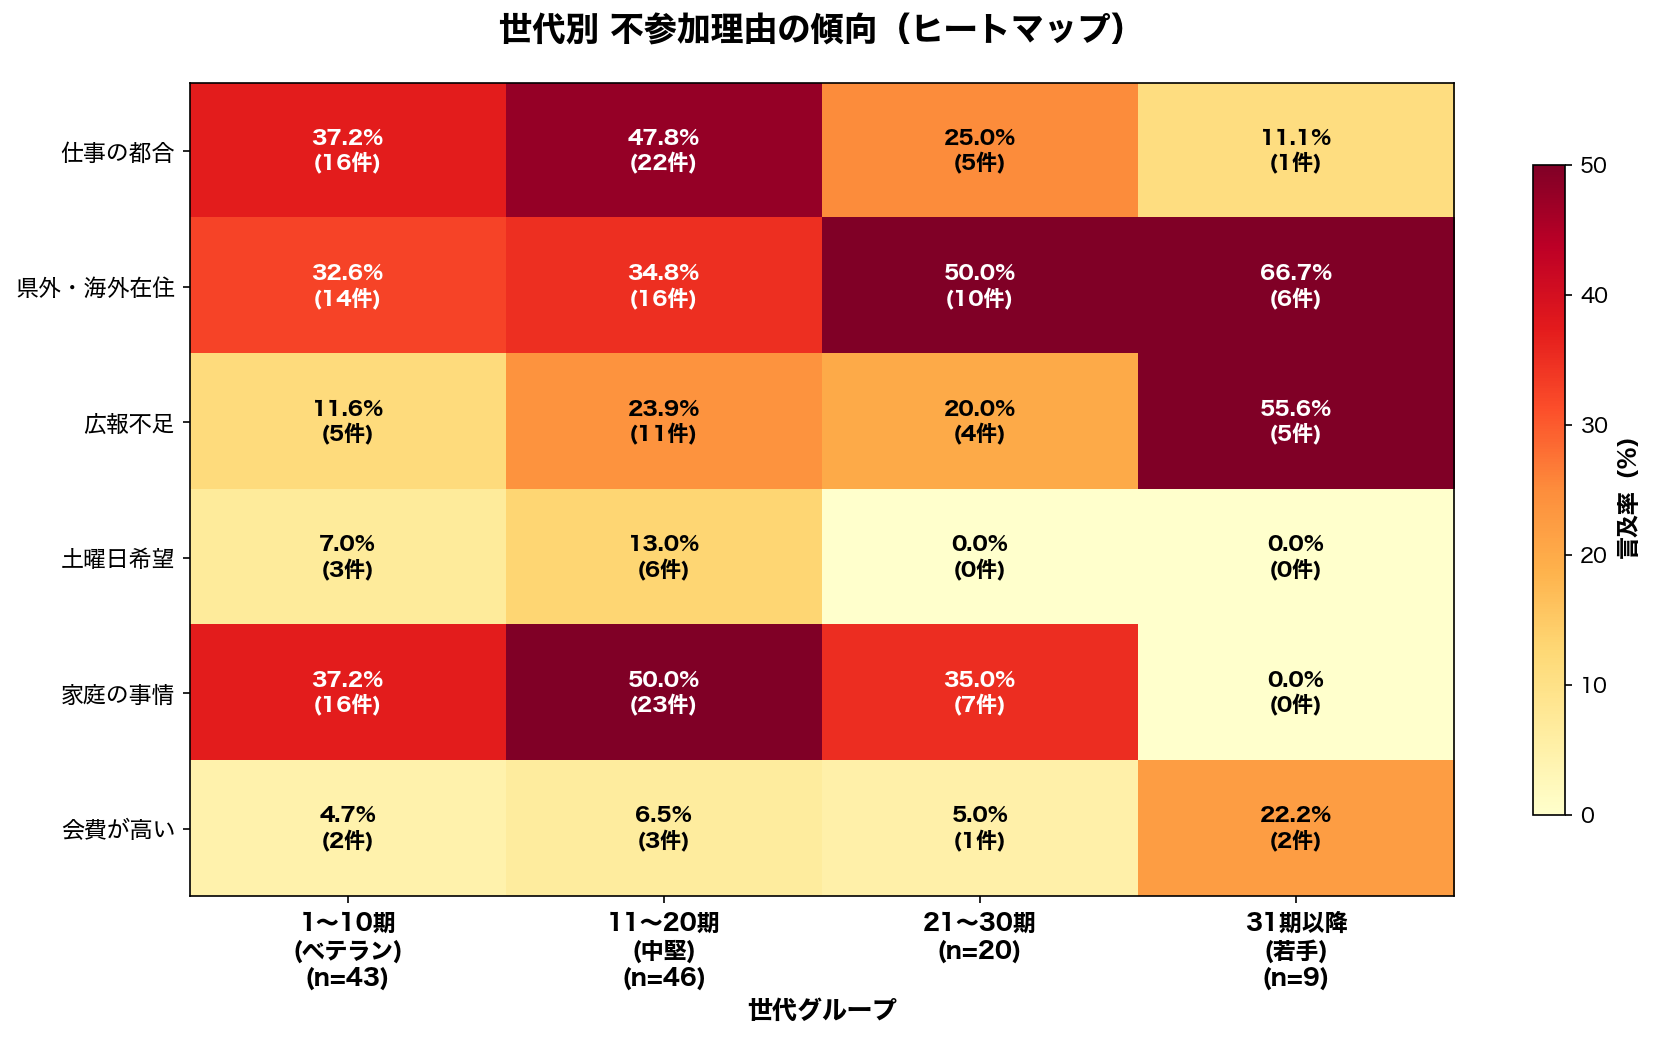
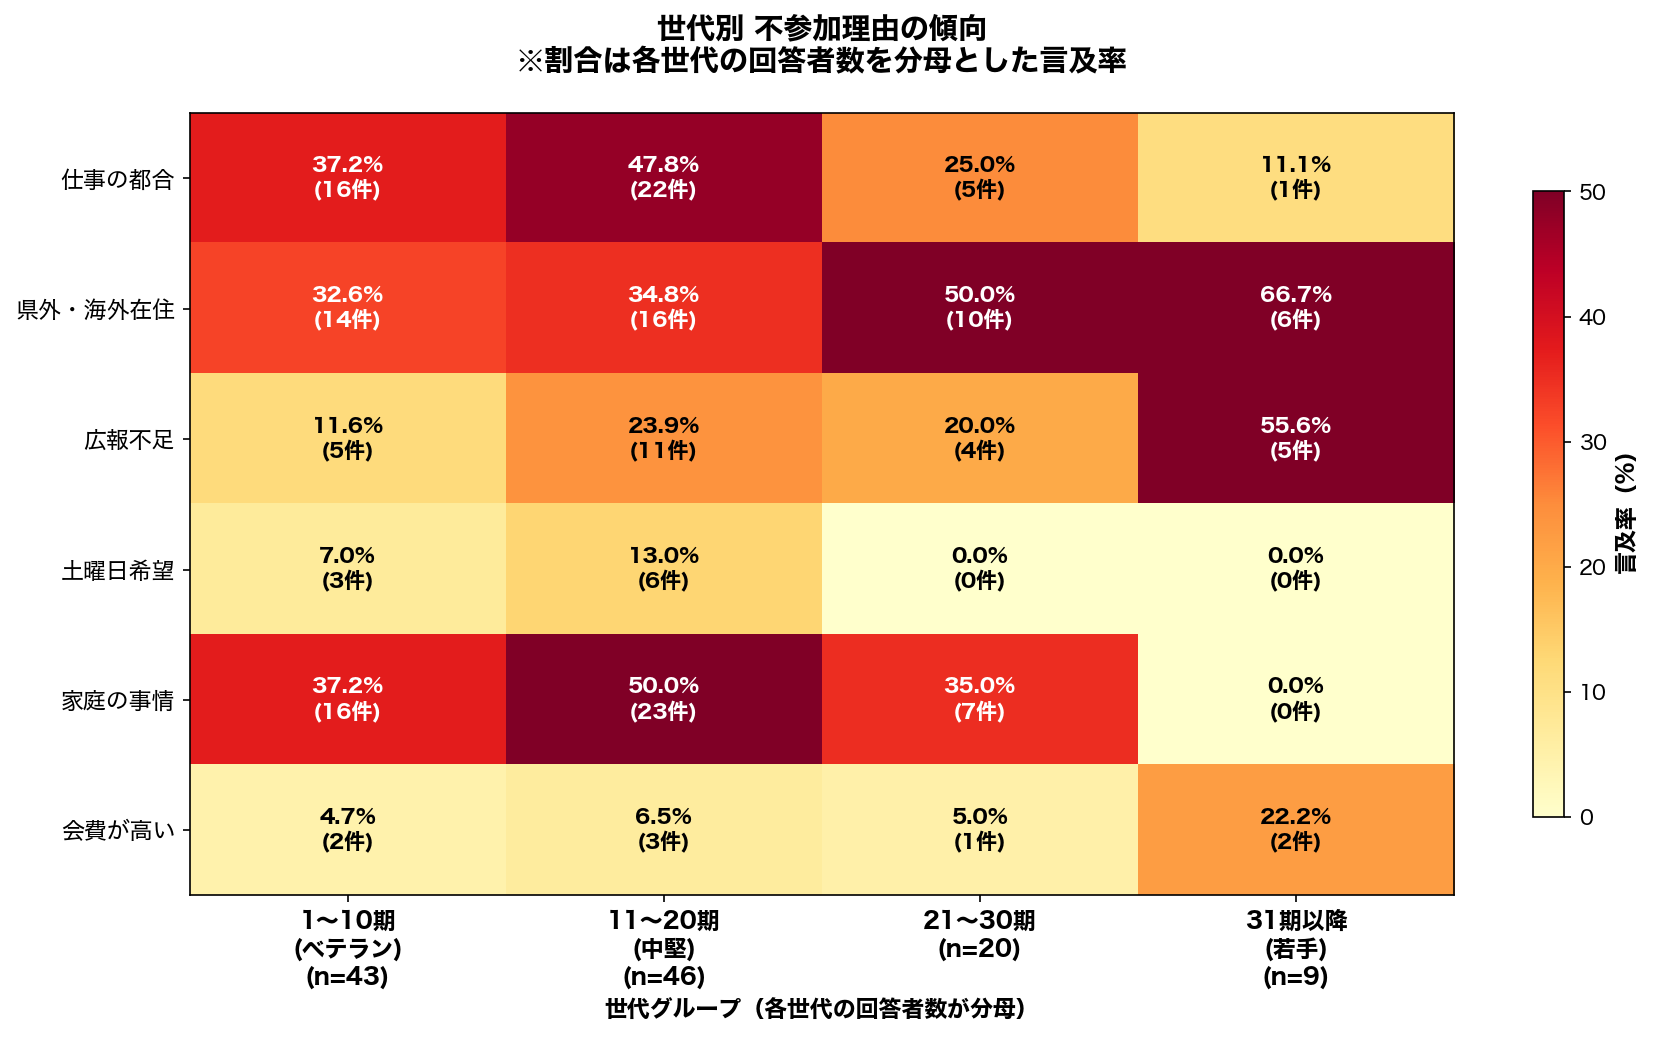
fix: 不参加理由ヒートマップの分母を明示
タイトルとX軸に「各世代の回答者数を分母とした言及率」と明記

diff --git a/scripts/analyze_non_participation_by_generation.py b/scripts/analyze_non_participation_by_generation.py
@@ -129,9 +129,9 @@ def create_heatmap(cross_data, cross_counts, gen_totals):
     cbar = plt.colorbar(im, ax=ax, shrink=0.8)
     cbar.set_label('言及率（%）', fontsize=11, fontweight='bold')
 
-    # タイトル
-    ax.set_title('世代別 不参加理由の傾向（ヒートマップ）', fontsize=16, fontweight='bold', pad=20)
-    ax.set_xlabel('世代グループ', fontsize=12, fontweight='bold')
+    # タイトル（分母を明示）
+    ax.set_title('世代別 不参加理由の傾向\n※割合は各世代の回答者数を分母とした言及率', fontsize=14, fontweight='bold', pad=20)
+    ax.set_xlabel('世代グループ（各世代の回答者数が分母）', fontsize=11, fontweight='bold')
 
     plt.tight_layout()
     plt.savefig('../images/analysis/non_participation_heatmap.png', dpi=150, bbox_inches='tight',
